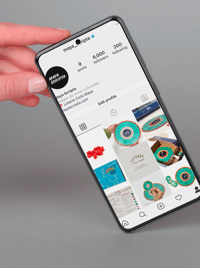
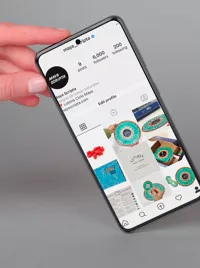
Commit from TeleportHQ

diff --git a/index.html b/index.html
@@ -36,7 +36,7 @@
     </style>
     <link
       rel="shortcut icon"
-      href="public/playground_assets/icon.png"
+      href="public/playground_assets/icon.ico"
       type="icon/png"
       sizes="32x32"
     />
@@ -430,17 +430,17 @@
               <div class="home-container60 box">
                 <img
                   alt="pastedImage"
-                  src="public/playground_assets/pastedimage-7q2-300w.png"
+                  src="https://play.teleporthq.io/static/svg/placeholders/no-image.svg"
                   class="home-pasted-image06"
                 />
                 <img
                   alt="pastedImage"
-                  src="public/playground_assets/pastedimage-h2ic-300w.png"
+                  src="https://play.teleporthq.io/static/svg/placeholders/no-image.svg"
                   class="home-pasted-image07"
                 />
                 <img
                   alt="pastedImage"
-                  src="public/playground_assets/pastedimage-kmp9-300w.png"
+                  src="https://play.teleporthq.io/static/svg/placeholders/no-image.svg"
                   class="home-pasted-image08"
                 />
                 <img

diff --git a/home.css b/home.css
@@ -1162,7 +1162,6 @@
   }
   .home-container41 {
     flex: 1;
-    width: 100%;
   }
   .home-container42 {
     flex: .5;
